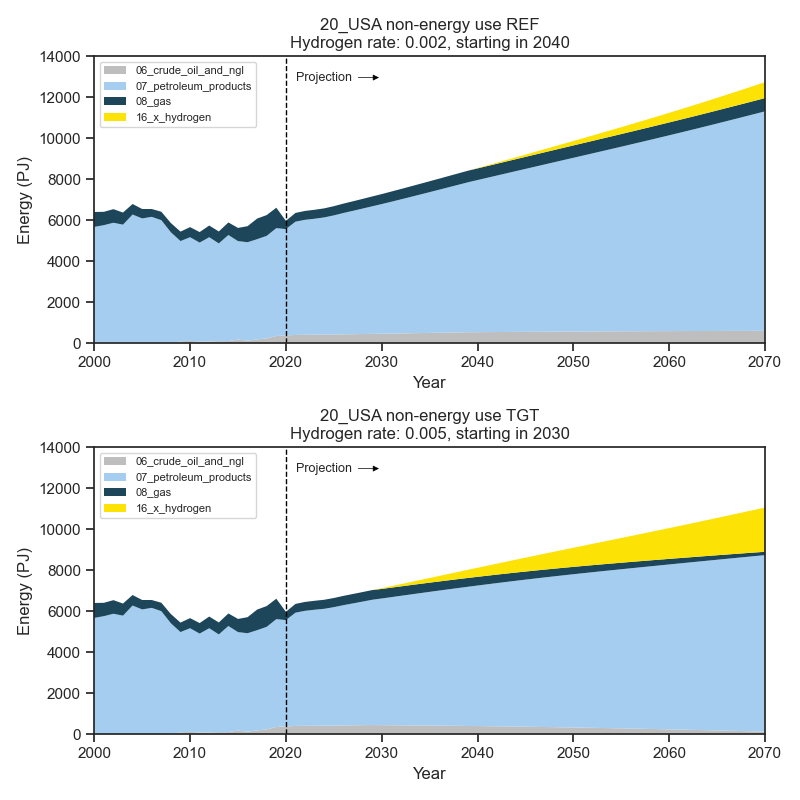
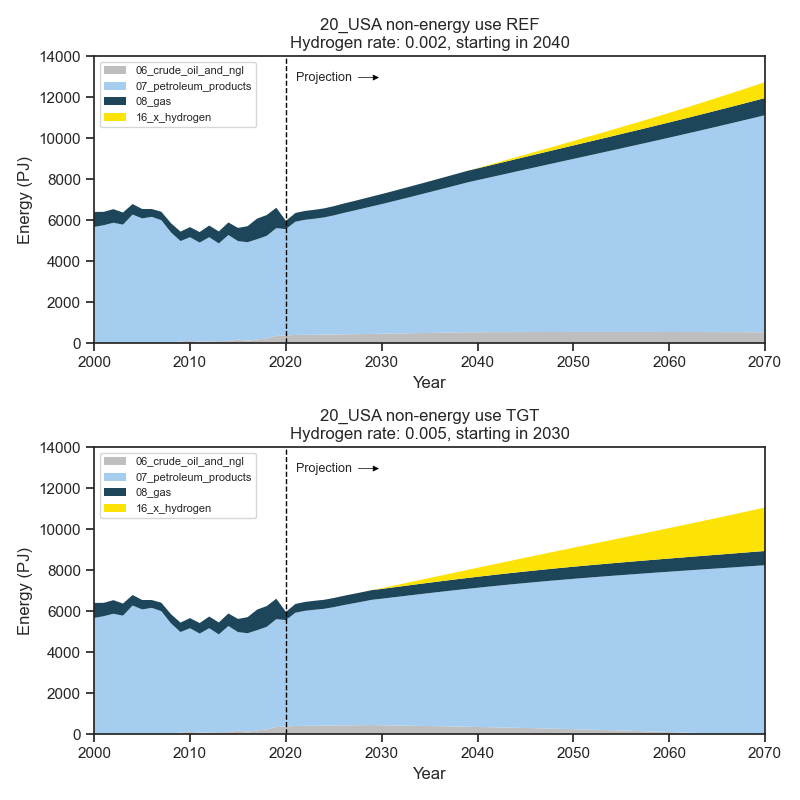
CCS updates 10Aug2023

diff --git a/workflow/scripts/f6_aggregate_industry.py b/workflow/scripts/f6_aggregate_industry.py
@@ -172,3 +172,222 @@ for economy in list(economy_select):
         
     else:
         pass
+
+###############################################################################################################################
+
+# CCS charts
+steel_sub3 = ['14_03_01_01_fs', '14_03_01_03_ccs']
+chem_sub3 = ['14_03_02_01_fs', '14_03_02_02_ccs']
+cement_sub3 = ['14_03_04_01_ccs', '14_03_04_02_nonccs']
+id = ['scenarios', 'economy', 'sectors', 'sub1sectors',	'sub2sectors', 'sub3sectors', 'sub4sectors', 'fuels', 'subfuels']
+
+# Now read in all data for each economy
+for economy in list(economy_select):
+    chart_save = './results/industry/3_fuel_switch/{}/ccs_charts/'.format(economy)
+
+    if not os.path.isdir(chart_save):
+        os.makedirs(chart_save)
+
+    file_location = './results/industry/4_final/{}/'.format(economy)
+
+    interim_files = glob.glob(file_location + '*interim*.csv')
+
+    ref_file = [item for item in interim_files if 'ref' in item]
+    tgt_file = [item for item in interim_files if 'tgt' in item]
+
+    if len(ref_file) + len(tgt_file) == 2:
+        ccs_files = {'ref': ref_file[0],
+                     'tgt': tgt_file[0]}
+        
+        ccs_ref = pd.read_csv(ccs_files['ref'])
+        ccs_tgt = pd.read_csv(ccs_files['tgt'])
+
+        # Steel
+        if steel_sub3[1] in ccs_ref['sub3sectors'].unique():
+            steel_ref = ccs_ref[(ccs_ref['sub3sectors'].isin(steel_sub3)) &
+                                (ccs_ref['fuels'] == '19_total')].copy().reset_index(drop = True)
+        
+        else:
+            steel_ref = ccs_ref[(ccs_ref['sub2sectors'] == '14_03_01_iron_and_steel') &
+                                (ccs_ref['fuels'] == '19_total')].copy().reset_index(drop = True)
+
+        if steel_sub3[1] in ccs_tgt['sub3sectors'].unique():
+            steel_tgt = ccs_tgt[(ccs_tgt['sub3sectors'].isin(steel_sub3)) &
+                                (ccs_tgt['fuels'] == '19_total')].copy().reset_index(drop = True)
+        
+        else:
+            steel_tgt = ccs_tgt[(ccs_tgt['sub2sectors'] == '14_03_01_iron_and_steel') &
+                                (ccs_tgt['fuels'] == '19_total')].copy().reset_index(drop = True)
+
+        # Chemicals
+        if chem_sub3[1] in ccs_ref['sub3sectors'].unique():
+            chem_ref = ccs_ref[(ccs_ref['sub3sectors'].isin(chem_sub3)) &
+                                (ccs_ref['fuels'] == '19_total')].copy().reset_index(drop = True)
+        
+        else:
+            chem_ref = ccs_ref[(ccs_ref['sub2sectors'] == '14_03_02_chemical_incl_petrochemical') &
+                               (ccs_ref['fuels'] == '19_total')].copy().reset_index(drop = True)
+
+        if chem_sub3[1] in ccs_tgt['sub3sectors'].unique():
+            chem_tgt = ccs_tgt[(ccs_tgt['sub3sectors'].isin(chem_sub3)) &
+                                (ccs_tgt['fuels'] == '19_total')].copy().reset_index(drop = True)
+        
+        else:
+            chem_tgt = ccs_tgt[(ccs_tgt['sub2sectors'] == '14_03_02_chemical_incl_petrochemical') &
+                               (ccs_tgt['fuels'] == '19_total')].copy().reset_index(drop = True)
+
+        # Cement
+        if cement_sub3[0] in ccs_ref['sub3sectors'].unique():
+            cement_ref = ccs_ref[(ccs_ref['sub3sectors'].isin(cement_sub3)) &
+                                (ccs_ref['fuels'] == '19_total')].copy().reset_index(drop = True)
+        
+        else:
+            cement_ref = ccs_ref[(ccs_ref['sub2sectors'] == '14_03_04_nonmetallic_mineral_products') &
+                                 (ccs_ref['fuels'] == '19_total')].copy().reset_index(drop = True)
+
+        if cement_sub3[0] in ccs_tgt['sub3sectors'].unique():
+            cement_tgt = ccs_tgt[(ccs_tgt['sub3sectors'].isin(cement_sub3)) &
+                                (ccs_tgt['fuels'] == '19_total')].copy().reset_index(drop = True)
+        
+        else:
+            cement_tgt = ccs_tgt[(ccs_tgt['sub2sectors'] == '14_03_04_nonmetallic_mineral_products') &
+                                 (ccs_tgt['fuels'] == '19_total')].copy().reset_index(drop = True)
+
+        steel_ref = steel_ref.melt(id_vars = id, var_name = 'year')[['sub3sectors', 'year', 'value']].copy().reset_index(drop = True)
+        steel_ref = steel_ref.astype({'year': 'int'})
+        steel_ref = steel_ref[(steel_ref['year'] <= 2070) & (steel_ref['year'] >= 2020)]
+
+        steel_tgt = steel_tgt.melt(id_vars = id, var_name = 'year')[['sub3sectors', 'year', 'value']].copy().reset_index(drop = True)
+        steel_tgt = steel_tgt.astype({'year': 'int'})
+        steel_tgt = steel_tgt[(steel_tgt['year'] <= 2070) & (steel_tgt['year'] >= 2020)]
+
+        chem_ref = chem_ref.melt(id_vars = id, var_name = 'year')[['sub3sectors', 'year', 'value']].copy().reset_index(drop = True)
+        chem_ref = chem_ref.astype({'year': 'int'})
+        chem_ref = chem_ref[(chem_ref['year'] <= 2070) & (chem_ref['year'] >= 2020)]
+
+        chem_tgt = chem_tgt.melt(id_vars = id, var_name = 'year')[['sub3sectors', 'year', 'value']].copy().reset_index(drop = True)
+        chem_tgt = chem_tgt.astype({'year': 'int'})
+        chem_tgt = chem_tgt[(chem_tgt['year'] <= 2070) & (chem_tgt['year'] >= 2020)]
+
+        cement_ref = cement_ref.melt(id_vars = id, var_name = 'year')[['sub3sectors', 'year', 'value']].copy().reset_index(drop = True)
+        cement_ref = cement_ref.astype({'year': 'int'})
+        cement_ref = cement_ref[(cement_ref['year'] <= 2070) & (cement_ref['year'] >= 2020)] 
+
+        cement_tgt = cement_tgt.melt(id_vars = id, var_name = 'year')[['sub3sectors', 'year', 'value']].copy().reset_index(drop = True)
+        cement_tgt = cement_tgt.astype({'year': 'int'})
+        cement_tgt = cement_tgt[(cement_tgt['year'] <= 2070) & (cement_tgt['year'] >= 2020)]    
+
+        # Change steel variable names 
+        steel_ref.replace({'14_03_01_01_fs': 'Non-CCS capacity',
+                           '14_03_01_03_ccs': 'CCS capacity',
+                           'x': 'Non-CCS capacity'}, inplace = True)
+        steel_tgt.replace({'14_03_01_01_fs': 'Non-CCS capacity',
+                           '14_03_01_03_ccs': 'CCS capacity',
+                           'x': 'Non-CCS capacity'}, inplace = True)
+        
+        chem_ref.replace({'14_03_02_01_fs': 'Non-CCS capacity',
+                           '14_03_02_02_ccs': 'CCS capacity',
+                           'x': 'Non-CCS capacity'}, inplace = True)
+        chem_tgt.replace({'14_03_02_01_fs': 'Non-CCS capacity',
+                           '14_03_02_02_ccs': 'CCS capacity',
+                           'x': 'Non-CCS capacity'}, inplace = True)
+        
+        cement_ref.replace({'14_03_04_02_nonccs': 'Non-CCS capacity',
+                           '14_03_04_01_ccs': 'CCS capacity',
+                           'x': 'Non-CCS capacity'}, inplace = True)
+        cement_tgt.replace({'14_03_04_02_nonccs': 'Non-CCS capacity',
+                           '14_03_04_01_ccs': 'CCS capacity',
+                           'x': 'Non-CCS capacity'}, inplace = True)
+
+        max_steel = 1.1 * np.nanmax([steel_ref.groupby('year')['value'].sum().max(), steel_tgt.groupby('year')['value'].sum().max()])
+        max_chem = 1.1 * np.nanmax([chem_ref.groupby('year')['value'].sum().max(), chem_tgt.groupby('year')['value'].sum().max()])
+        max_cement = 1.1 * np.nanmax([cement_ref.groupby('year')['value'].sum().max(), cement_tgt.groupby('year')['value'].sum().max()])
+
+        steel_ref = steel_ref.pivot(columns = ['sub3sectors'], index = 'year', values = 'value').reset_index()
+        steel_tgt = steel_tgt.pivot(columns = ['sub3sectors'], index = 'year', values = 'value').reset_index()
+
+        chem_ref = chem_ref.pivot(columns = ['sub3sectors'], index = 'year', values = 'value').reset_index()
+        chem_tgt = chem_tgt.pivot(columns = ['sub3sectors'], index = 'year', values = 'value').reset_index()
+
+        cement_ref = cement_ref.pivot(columns = ['sub3sectors'], index = 'year', values = 'value').reset_index()
+        cement_tgt = cement_tgt.pivot(columns = ['sub3sectors'], index = 'year', values = 'value').reset_index()
+
+        fig, axs = plt.subplots(3, 2, figsize = (8, 8))
+
+        sns.set_theme(style = 'ticks')
+
+        steel_ref.plot(kind = 'bar', x = 'year', stacked = True, ax = axs[0, 0], color = fuel_palette_CCS, 
+                       linewidth = 0, width = 0.7)
+
+        axs[0, 0].set(title = economy + ' steel consumption REF',
+            xlabel = 'Year',
+            ylabel = 'Energy (PJ)',
+            ylim = (0, max_steel))
+        
+        axs[0, 0].legend(title = '', fontsize = 8)
+
+        steel_tgt.plot(kind = 'bar', x = 'year', stacked = True, ax = axs[0, 1], color = fuel_palette_CCS, 
+                       linewidth = 0, width = 0.7)
+
+        axs[0, 1].set(title = economy + ' steel consumption TGT',
+            xlabel = 'Year',
+            ylabel = 'Energy (PJ)',
+            ylim = (0, max_steel))
+        
+        axs[0, 1].legend(title = '', fontsize = 8)
+
+        chem_ref.plot(kind = 'bar', x = 'year', stacked = True, ax = axs[1, 0], color = fuel_palette_CCS, 
+                      linewidth = 0, width = 0.7)
+
+        axs[1, 0].set(title = economy + ' chemicals consumption REF',
+            xlabel = 'Year',
+            ylabel = 'Energy (PJ)',
+            ylim = (0, max_chem))
+        
+        axs[1, 0].legend(title = '', fontsize = 8)
+    
+        chem_tgt.plot(kind = 'bar', x = 'year', stacked = True, ax = axs[1, 1], color = fuel_palette_CCS, 
+                      linewidth = 0, width = 0.7)
+
+        axs[1, 1].set(title = economy + ' chemicals consumption TGT',
+            xlabel = 'Year',
+            ylabel = 'Energy (PJ)',
+            ylim = (0, max_chem))
+        
+        axs[1, 1].legend(title = '', fontsize = 8)
+
+        cement_ref.plot(kind = 'bar', x = 'year', stacked = True, ax = axs[2, 0], color = fuel_palette_CCS, 
+                        linewidth = 0, width = 0.7)
+
+        axs[2, 0].set(title = economy + ' cement consumption REF',
+            xlabel = 'Year',
+            ylabel = 'Energy (PJ)',
+            ylim = (0, max_cement))
+        
+        axs[2, 0].legend(title = '', fontsize = 8)
+    
+
+        cement_tgt.plot(kind = 'bar', x = 'year', stacked = True, ax = axs[2, 1], color = fuel_palette_CCS, 
+                        linewidth = 0, width = 0.7)
+
+        axs[2, 1].set(title = economy + ' cement consumption TGT',
+            xlabel = 'Year',
+            ylabel = 'Energy (PJ)',
+            ylim = (0, max_cement))
+        
+        axs[2, 1].legend(title = '', fontsize = 8)
+
+        for axis_to_change in [axs[0, 0], axs[0, 1], axs[1, 0], axs[1, 1], axs[2, 0], axs[2, 1]]:
+            axis_to_change.xaxis.set_tick_params(rotation = 0)
+            xticks = axis_to_change.xaxis.get_major_ticks()
+            for i, tick in enumerate(xticks):
+                if i % 10 != 0:
+                    tick.label1.set_visible(False)
+                
+        plt.tight_layout()
+        plt.savefig(chart_save + economy + '_ccs_results.png')
+        plt.show()
+        plt.close()
+
+
+

diff --git a/workflow/scripts/f3_non_energy_switch_function.py b/workflow/scripts/f3_non_energy_switch_function.py
@@ -43,7 +43,9 @@ def fuel_switch_ne(economy = '01_AUS',
                    hyd_start_ref = 2040,
                    hyd_start_tgt = 2030,
                    hyd_increment_ref = 0.005,
-                   hyd_increment_tgt = 0.01):
+                   hyd_increment_tgt = 0.01,
+                   gas_switch_ref = False,
+                   gas_switch_tgt = False):
     """Function to layer in hydrogen for all APEC economies for non-energy."""
 
     # Save location for charts and data
@@ -85,6 +87,11 @@ def fuel_switch_ne(economy = '01_AUS',
             non_zero_ref = list(ratio_nextyear[(ratio_nextyear['energy'] != 0) &
                                                (ratio_nextyear['year'] == year)]['fuels'])
             non_zero_ne_ref = [i for i in non_zero_ref]
+
+            if gas_switch_ref == False:
+                non_zero_ne_ref = [i for i in non_zero_ne_ref if i != '08_gas']
+            else:
+                pass
     
             for fuel in non_zero_ne_ref:
                 if (hyd_increment_ref / (len(non_zero_ne_ref)) >= ratio_thisyear.loc[ratio_thisyear['fuels'] == fuel, 'energy'].values[0]):
@@ -96,7 +103,7 @@ def fuel_switch_ne(economy = '01_AUS',
                     ratio_nextyear.loc[ratio_nextyear['fuels'] == fuel, 'energy'] = ratio_thisyear.loc[ratio_thisyear['fuels'] == fuel, 'energy'].values[0] - \
                         (hyd_increment_ref / (len(non_zero_ne_ref)))
                 
-            # New value for electricity
+            # New value for hydrogen
             if (1 - ratio_thisyear.loc[ratio_thisyear['fuels'] == '16_others', 'energy'].values[0]) < hyd_increment_ref:
                 ratio_nextyear.loc[ratio_nextyear['fuels'] == '16_others', 'energy'] = 1.0 
 
@@ -116,7 +123,7 @@ def fuel_switch_ne(economy = '01_AUS',
 
         ne_ratio_ref.loc[group.index] = group
 
-    # Now use the updated fuel share dataframe to deliver new energy results, that have been electrified
+    # Now use the updated fuel share dataframe to deliver new energy results, that have been hydrogen'd
     # Grab total energy by year
     # REF
     total_ref = data_ref.copy().groupby('year').sum()['energy']
@@ -184,6 +191,11 @@ def fuel_switch_ne(economy = '01_AUS',
             non_zero_tgt = list(ratio_nextyear[(ratio_nextyear['energy'] != 0) &
                                                (ratio_nextyear['year'] == year)]['fuels'])
             non_zero_ne_tgt = [i for i in non_zero_tgt]
+
+            if gas_switch_tgt == False:
+                non_zero_ne_tgt = [i for i in non_zero_ne_tgt if i != '08_gas']
+            else:
+                pass
     
             for fuel in non_zero_ne_tgt:
                 if (hyd_increment_tgt / (len(non_zero_ne_tgt)) >= ratio_thisyear.loc[ratio_thisyear['fuels'] == fuel, 'energy'].values[0]):

diff --git a/config/config_apr2023.py b/config/config_apr2023.py
@@ -181,7 +181,9 @@ custom_palette = {'reference': salmon_aqua[0],
                   'reference activity': salmon_aqua[0],
                   'target activity': salmon_aqua[-1],
                   'reference energy': salmon_aqua[0],
-                  'target energy': salmon_aqua[-1]}
+                  'target energy': salmon_aqua[-1],
+                  'CCS capacity': salmon_aqua[0],
+                  'Non-CCS capacity': salmon_aqua[-1]}
 
 fuel_industry = fuels_list[[0, 1, 5, 6, 7, 11, 14, 15, 16, 17]].reset_index(drop = True)
 
@@ -199,5 +201,8 @@ fuel_palette1 = {'01_coal': "#e27c7c",
                  '16_x_hydrogen': "#fce205",
                  '17_electricity': "#6cd4c5",
                  '18_heat': "#ea5545"}
+
+fuel_palette_CCS = {'CCS capacity': "#ea5545",
+                    'Non-CCS capacity': "#bebebe"}
 
 

diff --git a/workflow/scripts/f4_run_fuel_switch_projection.py b/workflow/scripts/f4_run_fuel_switch_projection.py
@@ -186,7 +186,8 @@ fuel_switch(economy = '20_USA', sector = ind2[9], elec_rate_ref = 0.003, elec_ra
 fuel_switch(economy = '20_USA', sector = ind2[10], elec_rate_tgt = 0.01)
 
 # Non-energy
-fuel_switch_ne(economy = '20_USA', hyd_increment_ref = 0.002, hyd_increment_tgt = 0.005)
+fuel_switch_ne(economy = '20_USA', hyd_increment_ref = 0.002, hyd_increment_tgt = 0.005, 
+               gas_switch_ref = False, gas_switch_tgt = False)
 
 #################################################################################################
 

diff --git a/workflow/scripts/f5_consolidate_results.py b/workflow/scripts/f5_consolidate_results.py
@@ -128,7 +128,7 @@ for economy in list(economy_select):
             cement_df['energy'] = cement_df['energy_x'].fillna(0) - cement_df['energy_y'].fillna(0)        
             cement_df = cement_df.drop(['energy_x', 'energy_y'], axis = 1).reset_index(drop = True)
 
-            cement_df['sub3sectors'] = '14_03_02_01_fs'
+            cement_df['sub3sectors'] = '14_03_04_02_nonccs'
 
             cement_df = pd.concat([cement_df, adj_df]).copy().reset_index(drop = True)
 

diff --git a/workflow/scripts/d3_trajectory_refine.py b/workflow/scripts/d3_trajectory_refine.py
@@ -1,3 +1,6 @@
+# NB: Good idea to delete folder in data >> industry_production >> 4_industry_refine1 >> economy 
+# Before running this for each economy's refined trajectory
+
 # Alter trajectory for chosen subsectors for each economy 
 # This adjustment is only for subsectors where adjustment is deemed necessary (qualitative determination)
 
